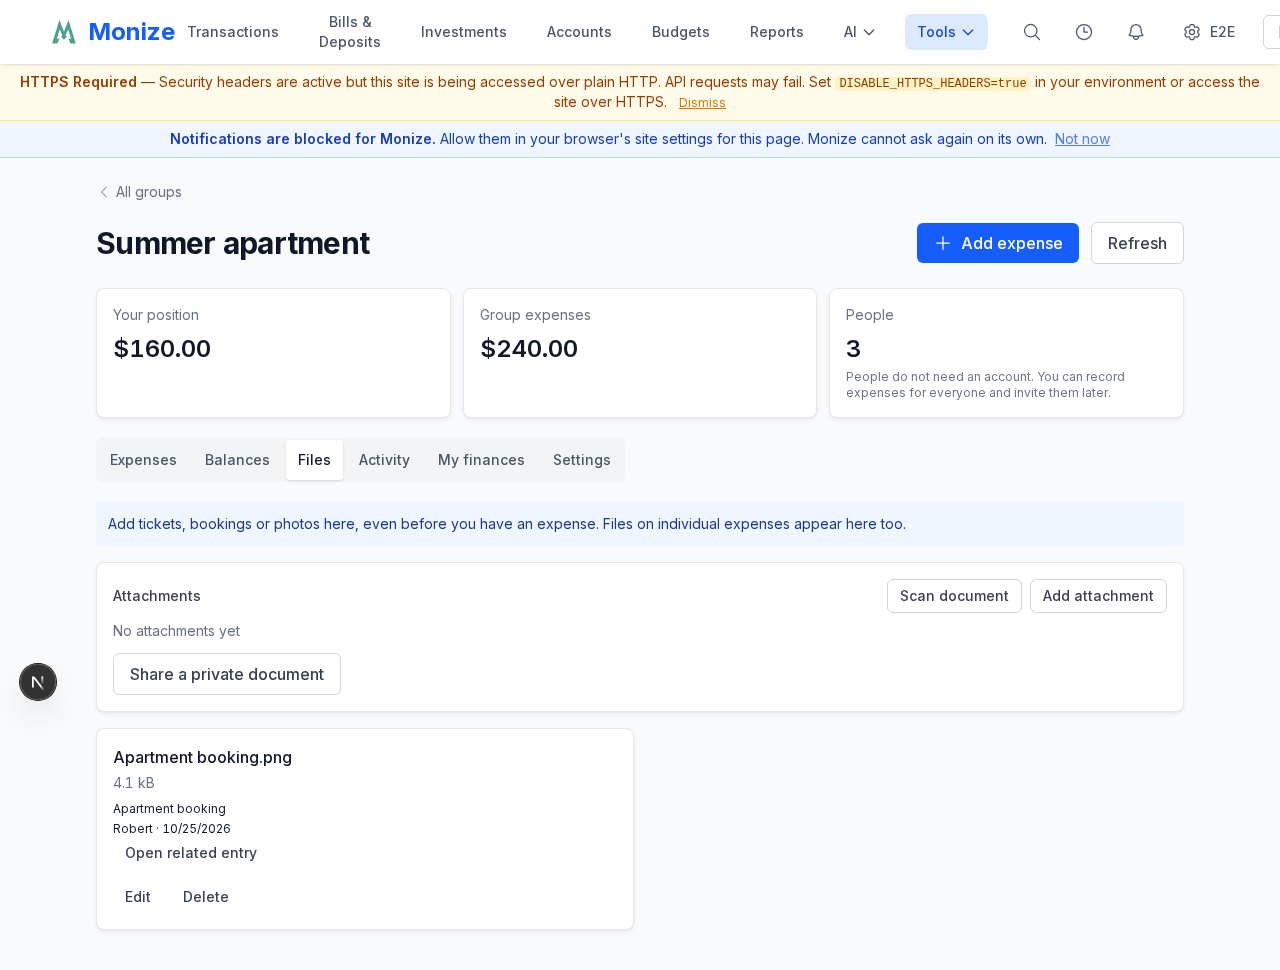
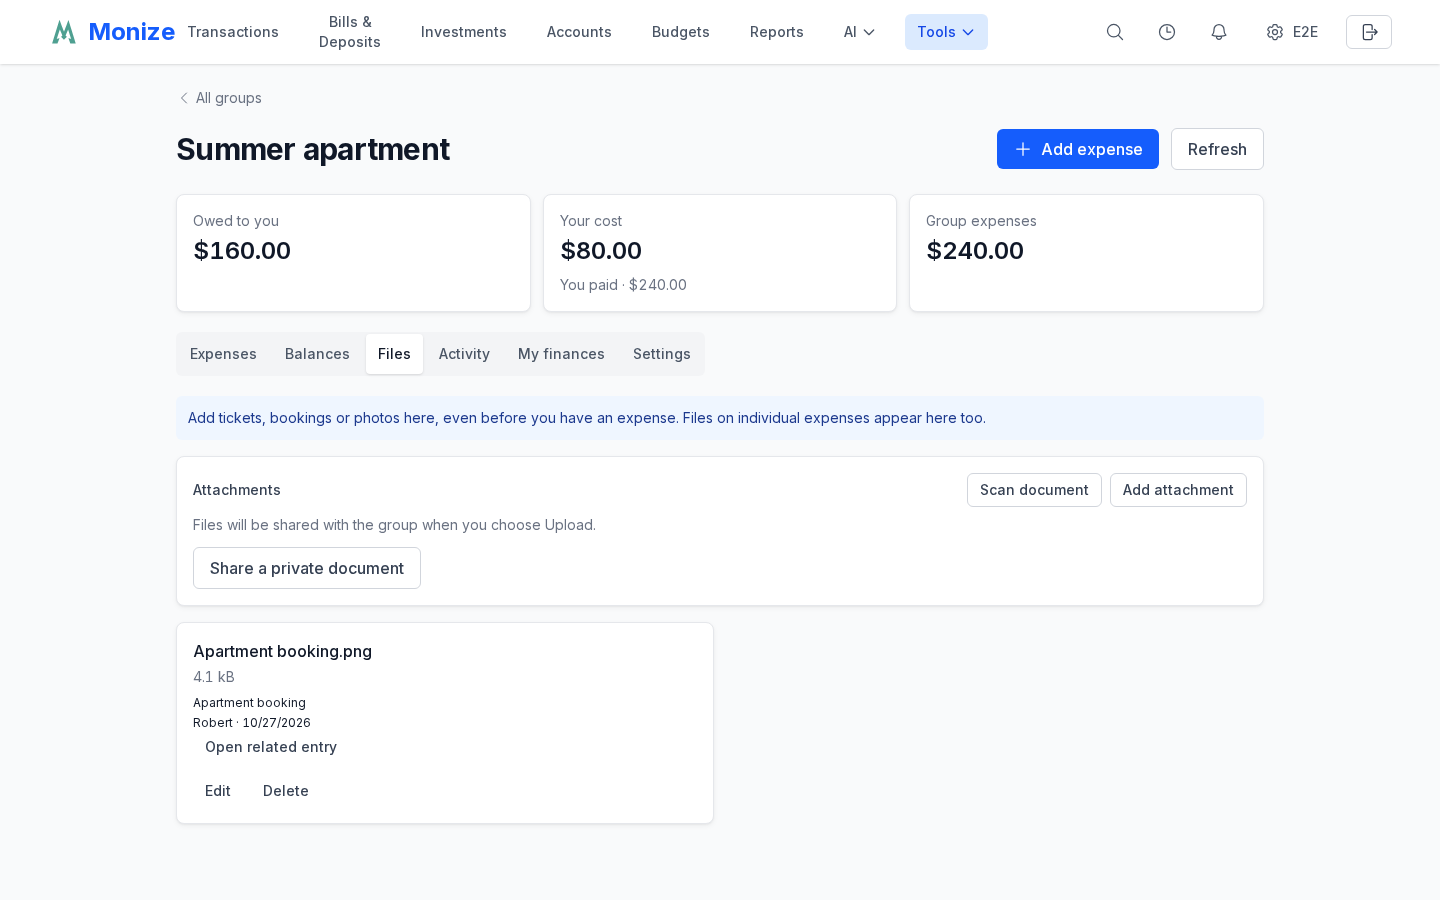
fix(shared-expenses): restore page landmarks and refresh browser evidence
Use the group page layout on private review, retained bookings, bank entry and linked people pages. Keep the existing main-scoped browser regression and refresh all eight production captures.

diff --git a/frontend/src/app/shared-expenses/review/page.tsx b/frontend/src/app/shared-expenses/review/page.tsx
@@ -23,53 +23,57 @@ export default function SharedReviewPage() {
   return (
     <ProtectedRoute>
       <PageLayout>
-        <PageHeader title={t("reviewTitle")} />
-        <div className="space-y-4">
-          <SharedNotice>{t("reviewLedgerBasis")}</SharedNotice>
-          <SharedError error={review.error} retry={review.reload} />
-          {review.isLoading ? (
-            <LoadingSpinner />
-          ) : (
-            !review.error &&
-            review.data && (
-              <>
-                {review.data.groups.length === 0 && (
-                  <EmptyState title={t("reviewEmpty")} />
-                )}
-                {review.data.groups.map((group) => (
-                  <Card key={group.groupId} padding="md">
-                    <div className="flex flex-wrap items-center justify-between gap-3">
-                      <div>
-                        <h2 className="font-semibold break-words">
-                          {group.accountName}
-                        </h2>
-                        <p className="mt-1 text-sm">
-                          {group.accessRevoked
-                            ? t("accessRevoked")
-                            : group.pendingCount > 0
-                              ? t("reviewPending", {
-                                  count: formatNumber(group.pendingCount, 0),
-                                })
-                              : t("reviewCurrent")}
-                        </p>
+        <main className="mx-auto max-w-6xl px-4 py-6 sm:px-6 lg:px-8 space-y-5">
+          <PageHeader title={t("reviewTitle")} />
+          <div className="space-y-4">
+            <SharedNotice>{t("reviewLedgerBasis")}</SharedNotice>
+            <SharedError error={review.error} retry={review.reload} />
+            {review.isLoading ? (
+              <LoadingSpinner />
+            ) : (
+              !review.error &&
+              review.data && (
+                <>
+                  {review.data.groups.length === 0 && (
+                    <EmptyState title={t("reviewEmpty")} />
+                  )}
+                  {review.data.groups.map((group) => (
+                    <Card key={group.groupId} padding="md">
+                      <div className="flex flex-wrap items-center justify-between gap-3">
+                        <div>
+                          <h2 className="font-semibold break-words">
+                            {group.accountName}
+                          </h2>
+                          <p className="mt-1 text-sm">
+                            {group.accessRevoked
+                              ? t("accessRevoked")
+                              : group.pendingCount > 0
+                                ? t("reviewPending", {
+                                    count: formatNumber(group.pendingCount, 0),
+                                  })
+                                : t("reviewCurrent")}
+                          </p>
+                        </div>
+                        <Link
+                          className="text-blue-600 dark:text-blue-400 hover:underline focus-visible:ring-2 focus-visible:ring-blue-500"
+                          href={
+                            group.accessRevoked
+                              ? `/shared-expenses/private-finances/${group.groupId}`
+                              : `/shared-expenses/${group.groupId}?view=myFinances`
+                          }
+                        >
+                          {t(
+                            group.accessRevoked ? "retainedFinance" : "review",
+                          )}
+                        </Link>
                       </div>
-                      <Link
-                        className="text-blue-600 dark:text-blue-400 hover:underline focus-visible:ring-2 focus-visible:ring-blue-500"
-                        href={
-                          group.accessRevoked
-                            ? `/shared-expenses/private-finances/${group.groupId}`
-                            : `/shared-expenses/${group.groupId}?view=myFinances`
-                        }
-                      >
-                        {t(group.accessRevoked ? "retainedFinance" : "review")}
-                      </Link>
-                    </div>
-                  </Card>
-                ))}
-              </>
-            )
-          )}
-        </div>
+                    </Card>
+                  ))}
+                </>
+              )
+            )}
+          </div>
+        </main>
       </PageLayout>
     </ProtectedRoute>
   );

diff --git a/frontend/src/app/shared-expenses/people/[payeeId]/page.tsx b/frontend/src/app/shared-expenses/people/[payeeId]/page.tsx
@@ -14,7 +14,7 @@ export default function LinkedPeoplePage() {
   return (
     <ProtectedRoute>
       <PageLayout>
-        <div className="mx-auto max-w-5xl space-y-5 px-4 py-6">
+        <main className="mx-auto max-w-6xl px-4 py-6 sm:px-6 lg:px-8 space-y-5">
           <PageHeader
             title={t("linkedPeople")}
             actions={
@@ -24,7 +24,7 @@ export default function LinkedPeoplePage() {
             }
           />
           <SharedPeople key={payeeId} linkedPayeeId={payeeId} />
-        </div>
+        </main>
       </PageLayout>
     </ProtectedRoute>
   );

diff --git a/frontend/src/app/shared-expenses/private-finances/[groupId]/page.tsx b/frontend/src/app/shared-expenses/private-finances/[groupId]/page.tsx
@@ -12,8 +12,10 @@ export default function PrivateSharedBookingsPage() {
   return (
     <ProtectedRoute>
       <PageLayout>
-        <PageHeader title={t("retainedFinance")} />
-        <SharedPrivateFinances initialGroupId={groupId} />
+        <main className="mx-auto max-w-6xl px-4 py-6 sm:px-6 lg:px-8 space-y-5">
+          <PageHeader title={t("retainedFinance")} />
+          <SharedPrivateFinances initialGroupId={groupId} />
+        </main>
       </PageLayout>
     </ProtectedRoute>
   );

diff --git a/frontend/src/app/shared-expenses/from-transaction/[transactionId]/page.tsx b/frontend/src/app/shared-expenses/from-transaction/[transactionId]/page.tsx
@@ -68,7 +68,7 @@ function BankContent() {
         : null;
   return (
     <PageLayout>
-      <div className="space-y-5">
+      <main className="mx-auto max-w-6xl px-4 py-6 sm:px-6 lg:px-8 space-y-5">
         <PageHeader
           title={t("splitWithPeople")}
           subtitle={t("bankStartHelp")}
@@ -137,7 +137,7 @@ function BankContent() {
             }}
           />
         )}
-      </div>
+      </main>
     </PageLayout>
   );
 }

diff --git a/docs/future-plans/shared-expenses-tasks.md b/docs/future-plans/shared-expenses-tasks.md
@@ -6,89 +6,107 @@ Execute [the plan](shared-expenses.md) against the requester-accepted
 
 ## Current handoff — 2026-10-27
 
-Branch `feat/shared-expenses` is rebased onto upstream `b70868dda`. The spec/plan
-commit preceded implementation; current commits are `e0a9a7e34` (spec),
-`ca15ea80f` (backend) and `20ca83c46` (frontend). The user authorized an upstream
-Draft PR and Discussion to seek maintainer scope approval while checks continue.
-There is no upstream approval or approved-to-build label yet. Merge remains a
-maintainer decision.
+Branch `feat/shared-expenses` is based on upstream `b70868dda`. The spec/plan
+commit preceded implementation. The user authorized
+[Draft PR #1890](https://github.com/kenlasko/monize/pull/1890) and
+[Discussion #1889](https://github.com/kenlasko/monize/discussions/1889) to seek
+maintainer scope approval. Upstream approval and the `approved-to-build` label
+remain pending. Merge remains a maintainer decision.
 
 | ID | Deliverable | Status |
 | --- | --- | --- |
 | S1 | Spec and execution plan before financial code | Committed; upstream scope approval pending |
 | B1 | Exact allocations, FX tuples, balances, refunds | Implemented; numeric unit cases passed |
-| B2 | Schema, six migrations, RLS, backup classification | Implemented; final rebased schema replay pending |
-| B3 | Groups, contacts, roles, invitations, ownership consent | Implemented; enforced-RLS recheck passed |
-| B4 | Private ledger, bank payments, category portions and source protection | Implemented; rebased integration recheck passed |
-| B5 | Group files, publication, activity, exports, notifications | Implemented; rebased lifecycle recheck passed |
-| B6 | Detached restore, private ledger retention and erasure | Implemented; rebased lifecycle recheck passed |
-| F1 | Group/people screens, splits, refunds and repayments | Implemented; final browser review pending |
-| F2 | Bank matching, combined save and private review | Implemented; six final Chromium journeys pending |
-| Q1 | Financial, authorization and concurrency regressions | Added; final gates pending |
-| Q2 | Desktop/mobile browser captures | Six earlier captures reviewed; final refresh pending |
-| L1 | Every supported locale and generated pseudo-locales | All translations authored locally; final localization commit pending |
-| Q3 | Gates, invariant catalog, consumer audit and PR | Invariants/audit written; draft publication and final verification in progress |
+| B2 | Schema, six migrations, RLS, backup classification | Implemented; final two-pass schema replay passed |
+| B3 | Groups, contacts, roles, invitations, ownership consent | Implemented; enforced-RLS feature suites passed |
+| B4 | Private ledger, bank payments, category portions and source protection | Implemented; booking integration passed |
+| B5 | Group files, publication, activity, exports, notifications | Implemented; lifecycle integration passed |
+| B6 | Detached restore, private ledger retention and erasure | Implemented; lifecycle integration passed |
+| F1 | Group/people screens, splits, refunds and repayments | Implemented; production browser journeys passed |
+| F2 | Bank matching, combined save and private review | All six production Chromium journeys passed |
+| Q1 | Financial, authorization and concurrency regressions | Changed-test gates and full PostgreSQL integration passed |
+| Q2 | Desktop/mobile browser captures | Eight final captures refreshed and visually reviewed |
+| L1 | Every supported locale and generated pseudo-locales | All supported locales authored and parity checked; separate final commit |
+| Q3 | Gates, invariant catalog, consumer audit and PR | Local gates passed; upstream scope, review-series agreement and CI pending |
 
 ## Verified evidence
 
-- After rebase: frontend lint, typecheck and pseudo-locale check passed, plus
-  6 focused files / 380 tests covering attachment staging, register controls,
-  action sheet, bank eligibility and E2E conventions.
-- After rebase: backend lint, source/test typechecks, pseudo-locale check and
-  build passed. All 47 PostgreSQL cases in the four shared-feature/support suites
-  passed, including two lock-blocked invitation claimants and rollback after an
-  injected balance-write failure.
-- Before rebase: controlled restore checks passed 53 cases, support-reference
-  unit checks passed 69 cases, and support-backup integration passed all 5 cases.
-  The latter checks actual exported columns and complete composite FK tuples.
-- Before rebase: native PostgreSQL 16 replayed 252 migrations twice with matching
-  normalized schema dumps; migration lint/self-tests and root env/docs/prefix
-  checks passed. Replay must be repeated after upstream migrations and the final
-  shared-document FK fix. The FK fix installs constraints independently of
-  whether entity synchronization already created the columns.
+- Backend lint, source/test typechecks, pseudo-locale check and build passed.
+  The final `test:changed` gate passed all 582 selected files, including 67 guards,
+  with zero failing tests.
+- All 47 PostgreSQL cases in the four shared-feature/support suites passed,
+  including two lock-blocked invitation claimants, rollback after an injected
+  balance-write failure, revoked document access and detached backup restore.
+  The complete integration run passed all 168 suites: 1846 cases passed and
+  eight existing live-S3 cases were skipped because `BACKUP_STORE_S3_TEST_ENDPOINT`
+  was not configured. Their gate in
+  `backend/test/integration/backup-store-s3.integration.spec.ts` is unchanged from
+  upstream. The serial PostgreSQL run took about 14.5 minutes.
+- Frontend lint, typecheck, pseudo-locale check and `test:changed` passed:
+  867 files / 16,171 cases, including all 37 selected guards.
+- The standard frontend `npm run build` passed on the final source in 90 seconds,
+  with a 2831 MiB memory peak inside a 4096 MiB ceiling. A cold attempt had reached
+  that ceiling; separate compile/type-check/generate steps prepared the cache
+  before the successful standard build. No type checks or build steps were skipped.
+- All six final Chromium journeys passed against that production build, with
+  one worker and zero retries. The review journey caught a missing `main`
+  landmark; its scoped assertion is retained. Four new pages now follow the
+  existing group page's landmark and responsive padding. Persistence and account
+  balances are checked after reload.
+- Native PostgreSQL 16 replayed all 253 retained migrations twice with matching
+  normalized schema dumps. Migration lint/self-tests, environment documentation,
+  documentation manifests and migration-prefix checks passed.
+- Frontend unit tests ran with this run's generated ignored vendor assets archived
+  outside the checkout, following the upstream test/build artifact boundary.
+  The public-script guard is unchanged; the subsequent build regenerated the assets.
 - Four guard decisions were explicitly authorized by the requesting user:
   shared-document export scope, one derived-posting rule exemption, checked
   transient restore-field clearing, and the two support-backup completeness
   checks. These are local authorizations, not upstream security review.
-- The earlier full integration run was interrupted to correct the isolated
-  database timezone to UTC. Its 12 attachment lease cases then passed. It is not
-  a completed full gate. The reported SimpleFIN lock inversion is fixed by
-  upstream `main`; verify the inherited fix in the final run.
-- The old frontend broad run had a generated-vendor-assets guard failure. The
-  maintainer's upstream note explains the test/build artifact boundary; final
-  tests use a fresh Linux checkout, before builds create those ignored assets.
-- Earlier default frontend builds hit the bounded memory budget; the Webpack
-  alternative failed on the existing scanner's browser import of node:module.
-  A final default-build attempt is pending on the rebased tree with a monitored
-  4096 MiB ceiling and a 1536 MiB host-memory reserve.
 
-## Remaining sequence
+## Browser captures
 
-1. Finish the rebased shared integration check, including a two-connection
-   invitation claim and an injected failure after the booking starts writing.
-2. Run backend/frontend changed-test gates once on the final source. Run the
-   native schema replay, root metadata checks and full serial backend integration.
-3. Run the bounded frontend production build and six Chromium journeys; refresh
-   and inspect every saved desktop/mobile capture. Record failures explicitly.
-4. Commit resulting fixes and refreshed evidence, then translations last. Keep
-   the [consumer audit](../specs/shared-expenses-consumers.md) and
-   [security decisions](../specs/shared-expenses-security.md) aligned with results.
-5. Publish/update the user-requested Draft PR and Discussion with completed
-   checks, remaining work and AI disclosure. Leave approval, complete-suite and
-   human-review boxes unticked until their evidence exists. Do not merge.
+These are synthetic users and amounts, captured from the production build with
+1440×900 desktop and 360×800 mobile viewports. Some captures include the full page.
+
+| Capture | What it shows |
+| --- | --- |
+| [Unequal split](shared-expenses-screenshots/unequal-split-desktop.png) | A 300 expense split into 80, 110 and 110 |
+| [Group overview](shared-expenses-screenshots/group-desktop.png) | Own cost 80 and amount owed 220 |
+| [Mobile balances](shared-expenses-screenshots/balances-mobile.png) | A partial repayment reduces the amount owed to 170 |
+| [Group files](shared-expenses-screenshots/files-desktop.png) | One persisted file linked to its expense |
+| [Bank preview](shared-expenses-screenshots/bank-preview-desktop.png) | Existing bank debit 300, personal cost 100 and claim 200 |
+| [Combined mobile booking](shared-expenses-screenshots/combined-bank-mobile.png) | A 350 basket with 50 private consumption and a 300 shared portion |
+| [Category portions](shared-expenses-screenshots/category-portions-desktop.png) | Selected portions from the original bank split |
+| [Private review](shared-expenses-screenshots/personal-review-desktop.png) | Group edits waiting for the account owner's acceptance |
+
+## Remaining review work
+
+1. Obtain maintainer agreement on scope, security boundaries and a smaller PR
+   series; this draft currently collects the implementation for that discussion.
+2. Complete upstream CI and human review, including the planned usability study.
+   Keep unmet PR checklist boxes unticked until that evidence exists.
+
+The [consumer audit](../specs/shared-expenses-consumers.md) and
+[security decisions](../specs/shared-expenses-security.md) are the review guides.
+All owned test services have been stopped and the temporary RAM database removed.
 
 ## Local verification environment
 
-The source of truth is the working tree. An identical Linux checkout uses
-upstream locked dependencies;
-synchronize subsequent edits before checking it. Docker has not been started
-in this resume. One test/build runs at a time, in UTC with one worker.
+The working tree is authoritative. An identical Linux checkout uses upstream
+locked dependencies. One test/build runs at a time, in UTC with one worker;
+database suites share only the throwaway `monize_test` and overlap no other check.
+Docker has not been started in this resume.
 
-Systemd scopes bound memory (normally 3500 MiB), swap (256 MiB) and CPU. The
-isolated PostgreSQL 16 service uses loopback port 15433, UTC and a 768 MiB ceiling.
-Existing local databases are not review targets. Database suites share only the
-throwaway `monize_test` and never overlap another test/build process.
+Systemd scopes bound memory (normally 3500 MiB), swap and CPU. The isolated
+PostgreSQL 16 service uses loopback port 15433 and UTC. Schema replay used a
+768 MiB ceiling. The full integration run uses a temporary RAM-backed cluster
+under a 1280 MiB ceiling covering both processes and database files; fsync,
+synchronous commit and full-page writes stay enabled. The initial disk run was
+interrupted because WSL file synchronization dominated execution time. Existing
+local databases are not review targets. The browser app services are stopped
+between runs. Private logs are in ignored `tmp/shared-expenses-spec/`.
 
-Private logs are in ignored `tmp/shared-expenses-spec/`. Screenshots and fixtures
-use synthetic users and amounts. The planned human usability study remains
-outstanding; automated browser checks do not replace it.
+The planned human usability study remains outstanding; automated browser checks
+do not replace it. Upstream CI and maintainer approval are reported separately
+from these local results.

diff --git a/docs/frontend/ui-conventions.md b/docs/frontend/ui-conventions.md
@@ -9,6 +9,7 @@ Paths beginning with `src/` or `scripts/`, and layer configuration filenames, ar
 - All interactive components use `'use client'`. Server components are the default for pages/layouts.
 - Use dynamic imports for heavy components: `dynamic(() => import('./Chart'), { ssr: false })`.
 - `ProtectedRoute` (`components/auth/ProtectedRoute.tsx`) wraps authenticated pages.
+- `PageLayout` (`components/layout/PageLayout.tsx`) supplies the background; each page supplies its `main` landmark and responsive content padding. The shared-expense review journey scopes its navigation to that landmark.
 - **No `setState` in `useEffect`** — ESLint rule `react-hooks/set-state-in-effect` is enforced. To reset child state when a prop changes, use the "info from previous render" pattern (track the prop in `useState` and update during render).
 - **Dialogs use `Modal`** (`components/ui/Modal.tsx`) — handles Escape, focus trap, body scroll lock, focus restore, and stacked-modal popstate. Opt into `pushHistory` so the browser back button also closes. `ConfirmDialog` forwards `pushHistory` for stacked confirm flows.
 - **Leaving the page from inside a `pushHistory` modal** closes the modal first, then navigates through `afterModalHistoryPop` (`lib/after-modal-history-pop.ts`), never a bare link and never a fixed `setTimeout`. The closing modal pops its entry with an asynchronous `history.back()`, which undoes any push that lands before it; a guessed delay loses that race on a slow render, so the helper waits for the pop itself.
